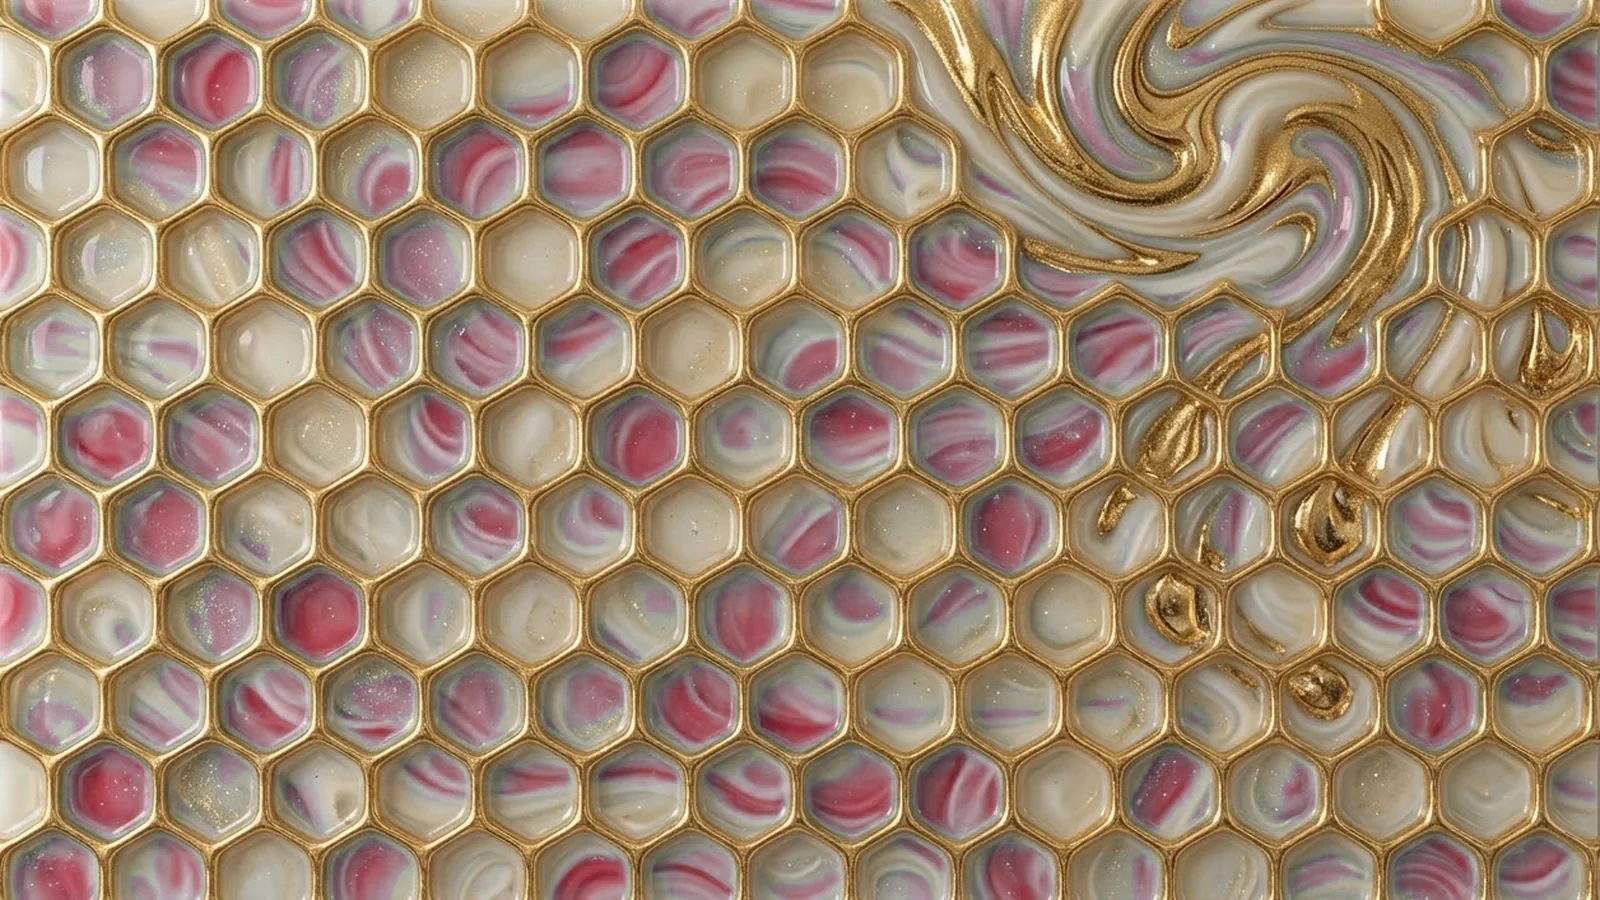
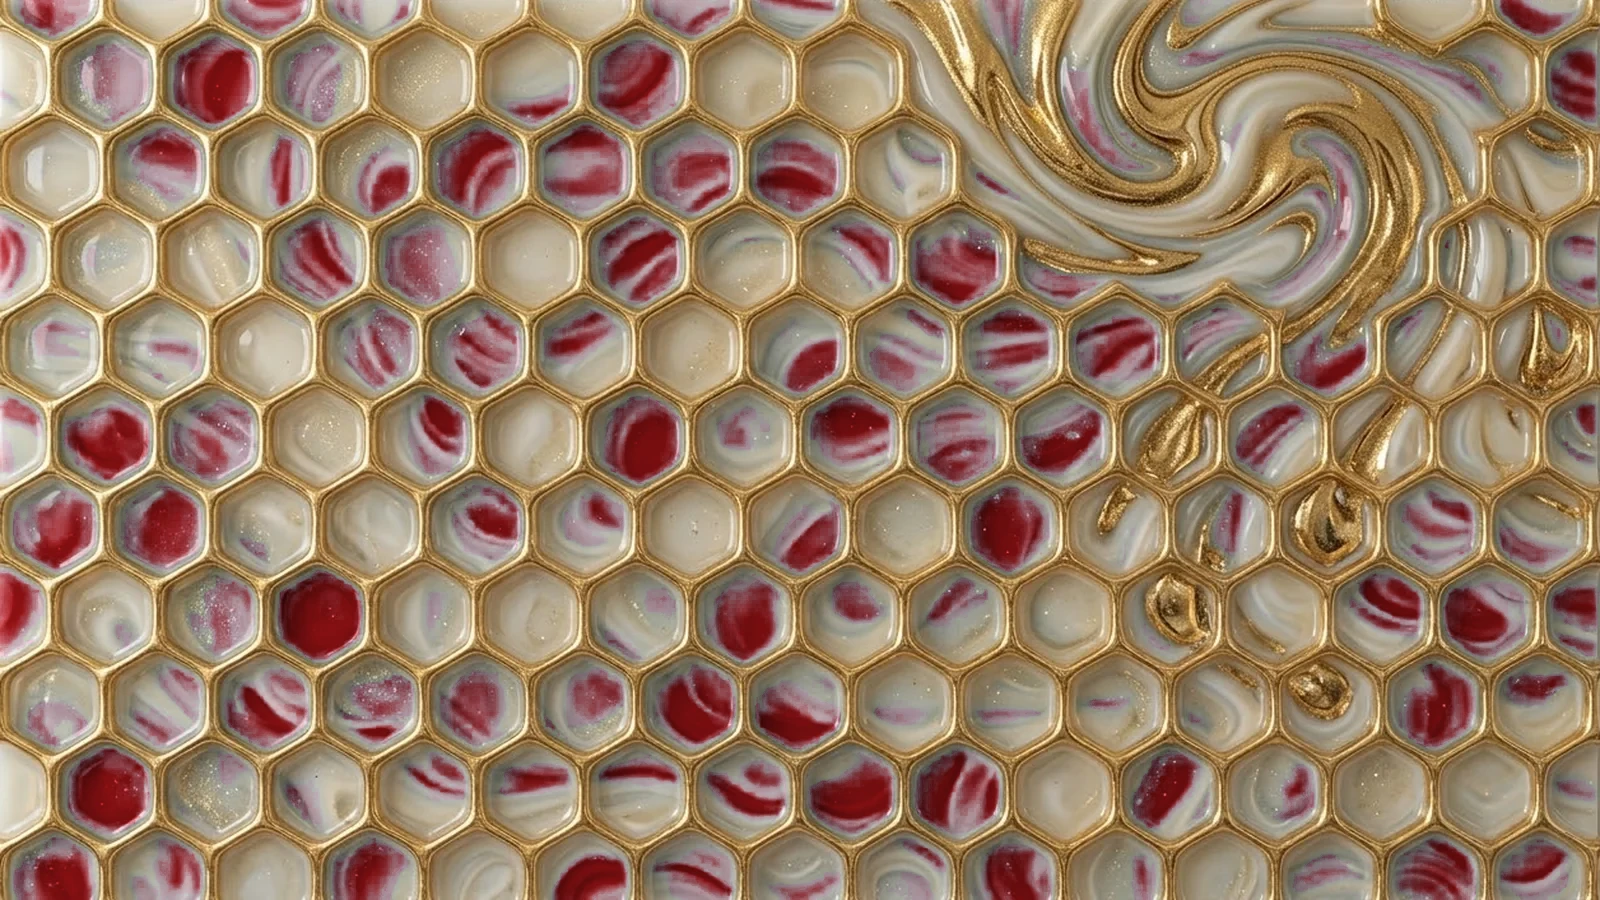
v0.23.1: red mode gets dark red streaks in the background and is saved with the project
Claude-Session: https://claude.ai/code/session_01B2N1JyK64NtMcm1sdzEiog

diff --git a/plugin/ui/mock.js b/plugin/ui/mock.js
@@ -110,7 +110,7 @@
 
   window.__JUCE__ = {
     initialisationData: {
-      __juce__platform: [], __juce__functions: ["startAutoEdit", "cancelAutoEdit", "undoAutoEdit", "getAutoEditReport", "chooseReference", "clearReference", "getReference", "listReferences", "selectReference", "deleteReference", "getUnmaskSources", "setUnmaskSource"],
+      __juce__platform: [], __juce__functions: ["startAutoEdit", "cancelAutoEdit", "undoAutoEdit", "getAutoEditReport", "chooseReference", "clearReference", "getReference", "listReferences", "selectReference", "deleteReference", "getUnmaskSources", "setUnmaskSource", "getUiRed", "setUiRed"],
       __juce__registeredGlobalEventIds: [], __juce__sliders: Object.keys(sliders), __juce__toggles: Object.keys(toggles), __juce__comboBoxes: Object.keys(combos),
     },
     postMessage(message) {
@@ -140,6 +140,8 @@
           setTimeout(() => { ref.json = JSON.stringify({ state: "ok", name: "Favorite Artist - Hook (Acapella)", seconds: 41, problem: "", warning: "" }); ref.version++; }, 1200); }
         if (payload.name === "clearReference") { ref.json = JSON.stringify({ state: "none" }); ref.version++; }
         if (payload.name === "getReference") result = ref.json;
+        if (payload.name === "getUiRed") result = !!window.__mockRed;
+        if (payload.name === "setUiRed") window.__mockRed = !!payload.params[0];
         if (payload.name === "listReferences") result = JSON.stringify({ builtin: [
             { name: "Pro male singer", about: "Low voices that mostly sing" }, { name: "Pro male rap / rhythmic", about: "Low voices that rap" },
             { name: "Pro female singer, bright", about: "Airy, open top" }, { name: "Pro female singer, warm", about: "Smooth, soft top" },

diff --git a/plugin/ui/app.js b/plugin/ui/app.js
@@ -35,15 +35,24 @@ function readPalette() {
   PAL.grey = css.getPropertyValue("--blue-grey").trim().replace(/^#(..)(..)(..)$/, (_, r, g, b) => [r, g, b].map((h) => parseInt(h, 16)).join(","));
 }
 readPalette();
-$("logo").addEventListener("click", () => {
-  document.documentElement.classList.toggle("red");
+const uiRedGet = Juce.getNativeFunction("getUiRed");
+const uiRedSet = Juce.getNativeFunction("setUiRed");
+function setRed(red) {
+  document.documentElement.classList.toggle("red", red);
   for (const img of document.querySelectorAll('img[src^="assets/"]')) {
     const name = img.getAttribute("src").slice(7, -5).replace(/_red$/, "");
     if (RED_ART.includes(name)) img.src = art(name);
   }
   readPalette();
   draw();
+}
+// Saved with the project: the plug-in keeps the choice, the UI asks for it when it opens.
+$("logo").addEventListener("click", () => {
+  const red = !document.documentElement.classList.contains("red");
+  setRed(red);
+  uiRedSet(red);
 });
+uiRedGet().then((red) => { if (red) setRed(true); }).catch(() => {});
 
 // ---------------------------------------------------------------------------------------------
 // Parameters

diff --git a/plugin/ui/index.html b/plugin/ui/index.html
@@ -112,7 +112,7 @@
     <div class="meter"><span class="m-label">OUT</span><div class="bar"><i id="out-bar"></i></div><span class="mono" id="out-text">−inf</span></div>
     <span class="grow"></span>
     <span class="mono dim" id="status"></span>
-    <span class="mono dim">VOXOLOGY v0.23.0</span>
+    <span class="mono dim">VOXOLOGY v0.23.1</span>
   </footer>
 </div>
 </div>

diff --git a/tools/ui/make_red_assets.py b/tools/ui/make_red_assets.py
@@ -10,9 +10,11 @@ import numpy as np
 from PIL import Image
 
 ASSETS = os.path.join(os.path.dirname(__file__), "..", "..", "plugin", "ui", "assets")
-# name -> colour boost. The marble tiles sit behind button text, so they stay as light as the blue was.
-FILES = {"honeycomb": 1.8, "logo": 1.8, "title": 1.8, "marble_blue": 1.15, "marble_blue2": 1.15, "marble_cream": 1.3,
-         "knob_blank": 1.8, "knob_db": 1.8, "knob_hz": 1.8, "knob_q": 1.8, "knob_switch": 1.8}
+# name -> (colour boost, deep). The marble tiles sit behind button text, so they stay as light as the blue was.
+# deep > 0: the stronger blue streaks become dark, rich red (like the knobs) instead of pink.
+FILES = {"honeycomb": (1.8, 1.0), "logo": (1.8, 0), "title": (1.8, 0), "marble_blue": (1.15, 0), "marble_blue2": (1.15, 0),
+         "marble_cream": (1.3, 0), "knob_blank": (1.8, 0), "knob_db": (1.8, 0), "knob_hz": (1.8, 0), "knob_q": (1.8, 0),
+         "knob_switch": (1.8, 0)}
 
 def ramp(x, a, b):
     return np.clip((x - a) / (b - a), 0.0, 1.0)
@@ -25,7 +27,7 @@ def hsv_to_rgb(h, s, v):
     r = np.choose(i, [v, q, p, p, t, v]); g = np.choose(i, [t, v, v, q, p, p]); b = np.choose(i, [p, p, t, v, v, q])
     return np.stack([r, g, b], -1)
 
-def redden(rgb, boost):
+def redden(rgb, boost, deep):
     r, g, b = rgb[..., 0], rgb[..., 1], rgb[..., 2]
     v = rgb.max(-1); c = v - rgb.min(-1)
     s = np.where(v > 0, c / np.maximum(v, 1e-9), 0.0)
@@ -33,14 +35,17 @@ def redden(rgb, boost):
         np.where(v == r, 60 * (((g - b) / np.maximum(c, 1e-9)) % 6),
         np.where(v == g, 60 * ((b - r) / np.maximum(c, 1e-9) + 2), 60 * ((r - g) / np.maximum(c, 1e-9) + 4))))
     w = ramp(h, 75, 105) * (1 - ramp(h, 260, 280)) * ramp(s, 0.005, 0.03)
-    red = hsv_to_rgb(356 + (h - 210) * 0.25, np.minimum(1.0, s * boost + 0.04), v)
+    t = deep * ramp(s, 0.07, 0.24)          # how strong the blue streak was
+    sat = np.minimum(1.0, s * boost + 0.04) * (1 - t) + 0.88 * t
+    hue = (356 + (h - 210) * 0.25) * (1 - t) + 359 * t
+    red = hsv_to_rgb(hue, sat, v * (1 - 0.28 * t))
     return rgb * (1 - w[..., None]) + red * w[..., None]
 
-for name, boost in FILES.items():
+for name, (boost, deep) in FILES.items():
     src = os.path.join(ASSETS, name + ".webp")
     im = Image.open(src)
     a = np.asarray(im.convert("RGBA")).astype(np.float64) / 255
-    a[..., :3] = redden(a[..., :3], boost)
+    a[..., :3] = redden(a[..., :3], boost, deep)
     out = Image.fromarray(np.round(a * 255).astype(np.uint8), "RGBA")
     if im.mode == "RGB":
         out = out.convert("RGB")

diff --git a/plugin/PluginProcessor.cpp b/plugin/PluginProcessor.cpp
@@ -436,6 +436,7 @@ void VoxologyAudioProcessor::getStateInformation (juce::MemoryBlock& destData)
         xml->setAttribute ("aeReference", autoEdit.getReferenceForSaving());
         xml->setAttribute ("umSource", unmaskSourceName);
         xml->setAttribute ("midiLearned", midiLearned.load());
+        xml->setAttribute ("uiRed", uiRed.load() ? 1 : 0);
         copyXmlToBinary (*xml, destData);
     }
 }
@@ -453,7 +454,9 @@ void VoxologyAudioProcessor::setStateInformation (const void* data, int sizeInBy
             setUnmaskSourceByName (xml->getStringAttribute ("umSource"));
             midiLearned.store (xml->getIntAttribute ("midiLearned", 0) & 0xFFF);
             xml->removeAttribute ("umSource");
+            uiRed.store (xml->getIntAttribute ("uiRed", 0) != 0);
             xml->removeAttribute ("midiLearned");
+            xml->removeAttribute ("uiRed");
             parameters.replaceState (juce::ValueTree::fromXml (*xml));
             autoEdit.onStateRestored (savedReport);
         }

diff --git a/plugin/VoxWebEditor.cpp b/plugin/VoxWebEditor.cpp
@@ -90,6 +90,12 @@ juce::WebBrowserComponent::Options VoxWebEditor::makeEditorOptions()
             if (args.size() >= 1) audioProcessor.autoEdit.deleteUserReference (args[0].toString());
             complete (true);
         })
+        .withNativeFunction ("getUiRed", [this] (const juce::Array<juce::var>&, auto complete) { complete (audioProcessor.uiRed.load()); })
+        .withNativeFunction ("setUiRed", [this] (const juce::Array<juce::var>& args, auto complete)
+        {
+            if (args.size() >= 1) audioProcessor.uiRed.store (static_cast<bool> (args[0]));
+            complete (true);
+        })
         .withNativeFunction ("clearReference", [this] (const juce::Array<juce::var>&, auto complete) { audioProcessor.autoEdit.clearReference(); complete (true); })
         .withNativeFunction ("getUnmaskSources", [this] (const juce::Array<juce::var>&, auto complete)
         {

diff --git a/plugin/PluginProcessor.h b/plugin/PluginProcessor.h
@@ -57,6 +57,7 @@ public:
     void setStateInformation (const void* data, int sizeInBytes) override;
 
     juce::AudioProcessorValueTreeState parameters;
+    std::atomic<bool> uiRed { false };   // the logo easter egg: red instead of blue (saved with the project)
 
     struct Meters
     {

diff --git a/claude/RESUME-HERE.md b/claude/RESUME-HERE.md
@@ -1073,7 +1073,7 @@ User OK'd all four audit items.
 
 ## v0.23.0 Easter egg: click the logo, blue turns red (2026-10-08, "Voxology UI easter egg" thread)
 - User: "click the logo: all the blue parts turn red (background, buttons, glows...), other colours stay; click again =
-  blue." Session only (opening the plug-in again starts blue); not saved in the project.
+  blue." Saved with the project (v0.23.1, below).
 - CSS: every blue now lives in :root vars (--blue*, --glow*, --midi-rgb, --knob-arc / --knob-track, --art-* image urls);
   :root.red overrides them (same lightness, hue -> red; --blue-deep red is darker, #7d1520, so button text reads).
 - Art: tools/ui/make_red_assets.py makes *_red.webp twins (honeycomb, logo, title, marble_blue / blue2 / cream, 5 knobs):
@@ -1083,3 +1083,12 @@ User OK'd all four audit items.
 - Honest limits: in red mode the calm (blue) Learn tips turn red too, so they look closer to the warnings; the red
   "REC" text sits on a red button. Checked in Chromium (mock.js + JUCE's index.js served over http): no errors,
   blue -> red -> blue. Plug-in not compiled locally (UI-only; assets come in through the existing glob): CI builds it.
+
+## v0.23.1 Red mode: dark red streaks in the background + saved with the project (2026-10-08)
+- User (screenshot of the red knobs): "Background red is mostly pink. Add dark red streaks like the knobs throughout the
+  background; it should save the colour choice with the project."
+- make_red_assets.py: per-file (boost, deep). honeycomb deep = 1: the stronger the blue streak (sat 0.07 - 0.24), the
+  closer it goes to the knobs' red (sat 0.88, hue 359, 28 % darker); pale areas stay light. Button marble unchanged.
+- Saved: processor uiRed (atomic bool), state attribute "uiRed"; native functions getUiRed / setUiRed (mock.js too).
+  The UI asks on open and turns red if saved red. Checked in Chromium: click -> saved, click again -> cleared, opening
+  with red saved starts red; no errors. Voxology_VST3 compiled on Linux.
